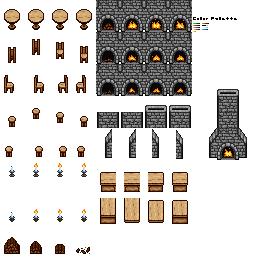
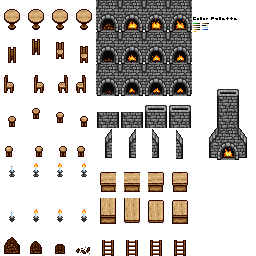
Ropes and Ladders
Added ropes and ladders as examples of ClimbingSurface things, which
will act like vertical stairs but with a different animation.
Functionality for them will be coming next!  Also included is a minor
refactor of stairs and ramps, where all ramps should extend the Ramp
class just as all climbing surfaces should extend the ClimbingSurface
class.  This will guarantee the ramp and climbingSurface flags are
correctly set, and that required information such as connection contexts
can be read.

New Things:
 * Ladder - a climbable surface that can only have a standalone
horizontal connection context.
 * Rope - a climbable surface that shows a single rope with standalone
horizontal connection, and a rope ladder/cargo net with a non-standalone
horizontal connection.

Changed region(s): [[0.375, 0.9375, 0.75, 1.0]]

diff --git a/src/things/Rope.java b/src/things/Rope.java
@@ -1,0 +1,126 @@
+package things;
+
+import java.io.IOException;
+
+import org.lwjgl.opengl.GL11;
+import org.newdawn.slick.opengl.TextureLoader;
+import org.newdawn.slick.util.ResourceLoader;
+
+import things.Stairs.StairsBuilder;
+import things.Stairs.stairsType;
+import things.Thing.connectionContext;
+import entities.Agent.direction;
+import static entities.Agent.direction.right;
+import static things.Stairs.stairsType.indoorWooden;
+import static things.Stairs.stairsType.outdoorWooden;
+import static things.Thing.connectionContext.*;
+import static entities.Agent.direction.*;
+
+public class Rope extends ClimbingSurface {
+
+	private Rope(RopeBuilder builder)
+	{
+		super();
+		
+		this.horizontalConnection = builder.horizontalConnection;
+		this.verticalConnection = builder.verticalConnection;
+		this.dir = builder.dir;
+		
+		this.texRow = 4;
+		this.texCol = 0;
+		
+		loadTextures();
+	}
+	
+	@Override
+	public void loadTextures()
+	{
+		try {
+			texture = TextureLoader.getTexture("png", ResourceLoader.getResourceAsStream("graphics/objects/thing3.png"));
+		} catch (IOException e) {e.printStackTrace();}
+	}
+
+	@SuppressWarnings("incomplete-switch")
+	@Override
+	public void renderThing(int pixelSize, int terrainTextureSize)
+	{
+		GL11.glPushMatrix();
+			
+			texture.bind();
+			GL11.glTexParameterf(GL11.GL_TEXTURE_2D, GL11.GL_TEXTURE_MAG_FILTER, GL11.GL_NEAREST);
+		
+			float tConvX = ((float)TEXTURE_SIZE_X)/((float)TEXTURE_SHEET_WIDTH);
+			float tConvY = ((float)TEXTURE_SIZE_Y)/((float)TEXTURE_SHEET_HEIGHT);
+			
+			int texX = texCol * 4;
+			int texY = texRow;
+			
+			switch (getVerticalConnection())
+			{
+			case middle:		texY += 1;	break;
+			case start:			texY += 2;	break;
+			case standalone:	texY += 3;	break;
+			}
+				
+			switch (getHorizontalConnection())
+			{
+			case middle:
+				texX += 1;
+				break;
+			case end:
+				texX += 2;
+				break;
+			case standalone:
+				texX += 3;
+				break;
+			}
+			
+			int xMin = pixelSize * ((terrainTextureSize - TEXTURE_SIZE_X) / 2);
+			int xMax = xMin + pixelSize * (TEXTURE_SIZE_X);
+			int yMin = 0;
+			int yMax = yMin + pixelSize * (TEXTURE_SIZE_Y);
+			
+			GL11.glBegin(GL11.GL_QUADS);
+				GL11.glTexCoord2f(texX * tConvX, texY*tConvY + tConvY);
+				GL11.glVertex2f(xMin, yMin);
+				GL11.glTexCoord2f(texX*tConvX + tConvX, texY*tConvY + tConvY);
+				GL11.glVertex2f(xMax, yMin);
+				GL11.glTexCoord2f(texX*tConvX + tConvX, texY * tConvY);
+				GL11.glVertex2f(xMax, yMax);
+				GL11.glTexCoord2f(texX*tConvX, texY * tConvY);
+				GL11.glVertex2f(xMin, yMax);
+			GL11.glEnd();
+			
+		GL11.glPopMatrix();
+	}
+	
+	public static class RopeBuilder
+	{
+		private connectionContext horizontalConnection = standalone;
+		private connectionContext verticalConnection = standalone;
+		private direction dir = up;
+		
+		public RopeBuilder horizontalConnection(connectionContext horizontalConnection)
+		{
+			this.horizontalConnection = horizontalConnection;
+			return this;
+		}
+		
+		public RopeBuilder verticalConnection(connectionContext verticalConnection)
+		{
+			this.verticalConnection = verticalConnection;
+			return this;
+		}
+		
+		public RopeBuilder dir(direction dir)
+		{
+			this.dir = dir;
+			return this;
+		}
+		
+		public Rope build()
+		{
+			return new Rope(this);
+		}
+	}
+}

diff --git a/src/things/Ladder.java b/src/things/Ladder.java
@@ -1,0 +1,96 @@
+package things;
+
+import java.io.IOException;
+
+import org.lwjgl.opengl.GL11;
+import org.newdawn.slick.opengl.TextureLoader;
+import org.newdawn.slick.util.ResourceLoader;
+
+import static things.Stairs.stairsType.indoorWooden;
+import static things.Stairs.stairsType.outdoorWooden;
+import static things.Thing.connectionContext.*;
+
+public class Ladder extends ClimbingSurface {
+
+	public Ladder()
+	{
+		super();
+		
+		this.horizontalConnection = standalone;
+		this.verticalConnection = standalone;
+		
+		this.texRow = 7;
+		this.texCol = 1;
+		
+		loadTextures();
+	}
+	
+	public Ladder(connectionContext verticalConnection)
+	{
+		super();
+		
+		horizontalConnection = standalone;
+		this.verticalConnection = verticalConnection;
+		
+		this.texRow = 7;
+		this.texCol = 1;
+		
+		loadTextures();
+	}
+	
+	@Override
+	public void loadTextures()
+	{
+		try {
+			texture = TextureLoader.getTexture("png", ResourceLoader.getResourceAsStream("graphics/objects/thing2.png"));
+		} catch (IOException e) {e.printStackTrace();}
+	}
+
+	@Override
+	public void renderThing(int pixelSize, int terrainTextureSize)
+	{
+		GL11.glPushMatrix();
+			
+			texture.bind();
+			GL11.glTexParameterf(GL11.GL_TEXTURE_2D, GL11.GL_TEXTURE_MAG_FILTER, GL11.GL_NEAREST);
+		
+			float tConvX = ((float)TEXTURE_SIZE_X)/((float)TEXTURE_SHEET_WIDTH);
+			float tConvY = ((float)TEXTURE_SIZE_Y)/((float)TEXTURE_SHEET_HEIGHT);
+			
+			int texX = texCol * 4;
+			int texY = texRow;
+			switch (getVerticalConnection())
+			{
+			case start:
+				texX += 0;
+				break;
+			case middle:
+				texX += 1;
+				break;
+			case end:
+				texX += 2;
+				break;
+			case standalone:
+				texX += 3;				
+				break;
+			}
+			
+			int xMin = pixelSize * ((terrainTextureSize - TEXTURE_SIZE_X) / 2);
+			int xMax = xMin + pixelSize * (TEXTURE_SIZE_X);
+			int yMin = 0;
+			int yMax = yMin + pixelSize * (TEXTURE_SIZE_Y);
+			
+			GL11.glBegin(GL11.GL_QUADS);
+				GL11.glTexCoord2f(texX * tConvX, texY*tConvY + tConvY);
+				GL11.glVertex2f(xMin, yMin);
+				GL11.glTexCoord2f(texX*tConvX + tConvX, texY*tConvY + tConvY);
+				GL11.glVertex2f(xMax, yMin);
+				GL11.glTexCoord2f(texX*tConvX + tConvX, texY * tConvY);
+				GL11.glVertex2f(xMax, yMax);
+				GL11.glTexCoord2f(texX*tConvX, texY * tConvY);
+				GL11.glVertex2f(xMin, yMax);
+			GL11.glEnd();
+			
+		GL11.glPopMatrix();
+	}
+}

diff --git a/src/main/GameMain.java b/src/main/GameMain.java
@@ -25,6 +25,8 @@ import things.FireplaceChimney;
 import things.FireplaceSide;
 import things.Firewood;
 import things.Bar;
+import things.Ladder;
+import things.Rope;
 import things.Stairs;
 import things.Table;
 import things.WallCandle;
@@ -905,6 +907,45 @@ public class GameMain {
 			world.addThing(tempVStairs2, 6, 18, k);
 			world.addThing(tempVStairs3, 7, 18, k);
 		}
+		
+		//rope and ladder test
+		for (int k = 1; k < 4; k ++)
+		{
+			Rope tempVStairs1;
+			Rope tempVStairs2;
+			Rope tempVStairs3;
+			
+			if (k == 1)
+			{
+				tempVStairs1 = new Rope.RopeBuilder().dir(up).horizontalConnection(start).verticalConnection(start).build();
+				tempVStairs2 = new Rope.RopeBuilder().dir(up).horizontalConnection(end).verticalConnection(start).build();
+				tempVStairs3 = new Rope.RopeBuilder().dir(up).horizontalConnection(standalone).verticalConnection(start).build();
+			}
+			else if (k == 3)
+			{
+				tempVStairs1 = new Rope.RopeBuilder().dir(up).horizontalConnection(start).verticalConnection(end).build();
+				tempVStairs2 = new Rope.RopeBuilder().dir(up).horizontalConnection(end).verticalConnection(end).build();
+				tempVStairs3 = new Rope.RopeBuilder().dir(up).horizontalConnection(standalone).verticalConnection(end).build();
+			}
+			else
+			{
+				tempVStairs1 = new Rope.RopeBuilder().dir(up).horizontalConnection(start).verticalConnection(middle).build();
+				tempVStairs2 = new Rope.RopeBuilder().dir(up).horizontalConnection(end).verticalConnection(middle).build();
+				tempVStairs3 = new Rope.RopeBuilder().dir(up).horizontalConnection(standalone).verticalConnection(middle).build();
+			}
+				
+			world.addThing(tempVStairs1, 15, 13, k);
+			world.addThing(tempVStairs2, 16, 13, k);
+			world.addThing(tempVStairs3, 17, 13, k);
+		}
+		
+		Ladder ladder1 = new Ladder(start);
+		Ladder ladder2 = new Ladder(middle);
+		Ladder ladder3 = new Ladder(end);
+		
+		world.addThing(ladder1, 14, 13, 1);
+		world.addThing(ladder2, 14, 13, 2);
+		world.addThing(ladder3, 14, 13, 3);
 		
 		world.setTerrain(t);
 		

diff --git a/src/things/Thing.java b/src/things/Thing.java
@@ -21,7 +21,8 @@ public abstract class Thing {
 	//State
 	protected boolean blocking = true;
 	protected boolean crossable = false;
-	protected boolean ramp = false;
+	protected boolean ramp = false; //true if thing is a ramp, this should only be set by inheriting from the Ramp class
+	protected boolean climbingSurface = false; //true if thing is a climbing surface, this should only be set by inheriting from the ClimbingSurface class
 	protected boolean transparent = false; //true if thing should not block light sources
 	protected boolean fullBlock = false; //true if thing should be replaced with a black square when one space above the render level, as with terrain
 	protected boolean tallBlock = false; //set to true only if things is fullBlock and occupies two vertical spaces
@@ -253,6 +254,11 @@ public abstract class Thing {
 	public boolean isRamp()
 	{
 		return ramp;
+	}
+	
+	public boolean isClimbingSurface()
+	{
+		return climbingSurface;
 	}
 
 	public void setPos(Position pos) {

diff --git a/src/things/Stairs.java b/src/things/Stairs.java
@@ -11,7 +11,7 @@ import static entities.Agent.direction.*;
 import static things.Thing.connectionContext.*;
 import static things.Stairs.stairsType.*;
 
-public class Stairs extends Thing {
+public class Stairs extends Ramp {
 	public enum stairsType
 	{
 		outdoorWooden, indoorWooden;
@@ -23,13 +23,14 @@ public class Stairs extends Thing {
 	
 	private Stairs(StairsBuilder builder)
 	{
+		super();
+		
 		this.type = builder.type;
 		this.horizontalConnection = builder.horizontalConnection;
 		this.verticalConnection = builder.verticalConnection;
 		this.dir = builder.dir;
 		
 		this.crossable = true;
-		this.ramp = true;
 		
 		switch (this.type)
 		{

diff --git a/src/things/ClimbingSurface.java b/src/things/ClimbingSurface.java
@@ -1,0 +1,22 @@
+package things;
+
+public abstract class ClimbingSurface extends Thing {
+
+	protected connectionContext horizontalConnection;
+	protected connectionContext verticalConnection;
+	
+	public ClimbingSurface()
+	{
+		climbingSurface = true;
+	}
+	
+	public connectionContext getHorizontalConnection()
+	{
+		return horizontalConnection;
+	}
+	
+	public connectionContext getVerticalConnection()
+	{
+		return verticalConnection;
+	}
+}

diff --git a/src/things/ThingGridCell.java b/src/things/ThingGridCell.java
@@ -109,7 +109,7 @@ public class ThingGridCell {
 		for (int i = 0; i < thingList.size(); i ++)
 		{
 			if (thingList.get(i).isRamp())
-				return ((Stairs)(thingList.get(i))).getHorizontalConnection();
+				return ((Ramp)(thingList.get(i))).getHorizontalConnection();
 		}
 		return connectionContext.standalone;	//this will return if there is no ramp, in which case the function shouldn't have been called anyway
 	}

diff --git a/src/things/Ramp.java b/src/things/Ramp.java
@@ -1,0 +1,22 @@
+package things;
+
+public abstract class Ramp extends Thing {
+
+	protected connectionContext horizontalConnection;
+	protected connectionContext verticalConnection;
+	
+	public Ramp()
+	{
+		ramp = true;
+	}
+	
+	public connectionContext getHorizontalConnection()
+	{
+		return horizontalConnection;
+	}
+	
+	public connectionContext getVerticalConnection()
+	{
+		return verticalConnection;
+	}
+}
